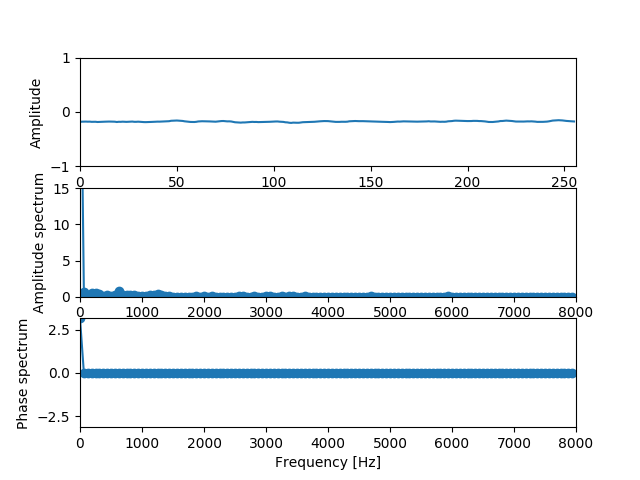
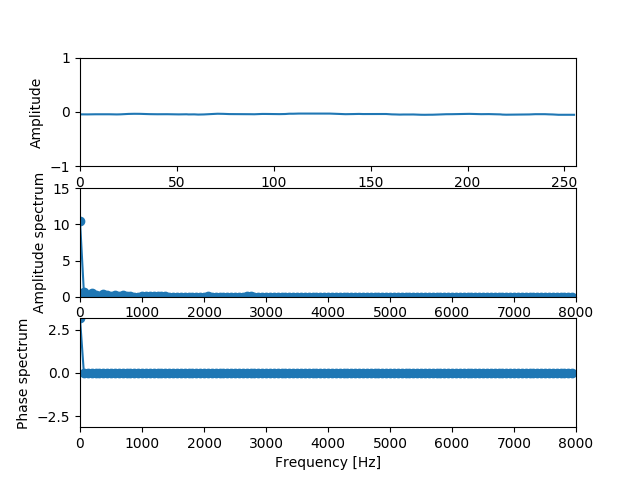
from domepi

Changed region(s): [[0.125, 0.2188, 0.9062, 0.2812], [0.125, 0.4062, 0.1562, 0.5938], [0.1562, 0.5938, 0.2188, 0.625]]

diff --git a/Nishidome/Test_FFT.py b/Nishidome/Test_FFT.py
@@ -14,7 +14,7 @@ def dft (n0, N, g):
     return G
 
 def main():
-    wf = wave.open("pyaudio_output.wav" , "r" )
+    wf = wave.open("pyaudio_output_10mm.wav" , "r" )
     fs = wf.getframerate()                          # サンプリング周波数
     g = wf.readframes(wf.getnframes())
     g = np.frombuffer(g, dtype= "int16")/32768.0    # -1～1に正規化
